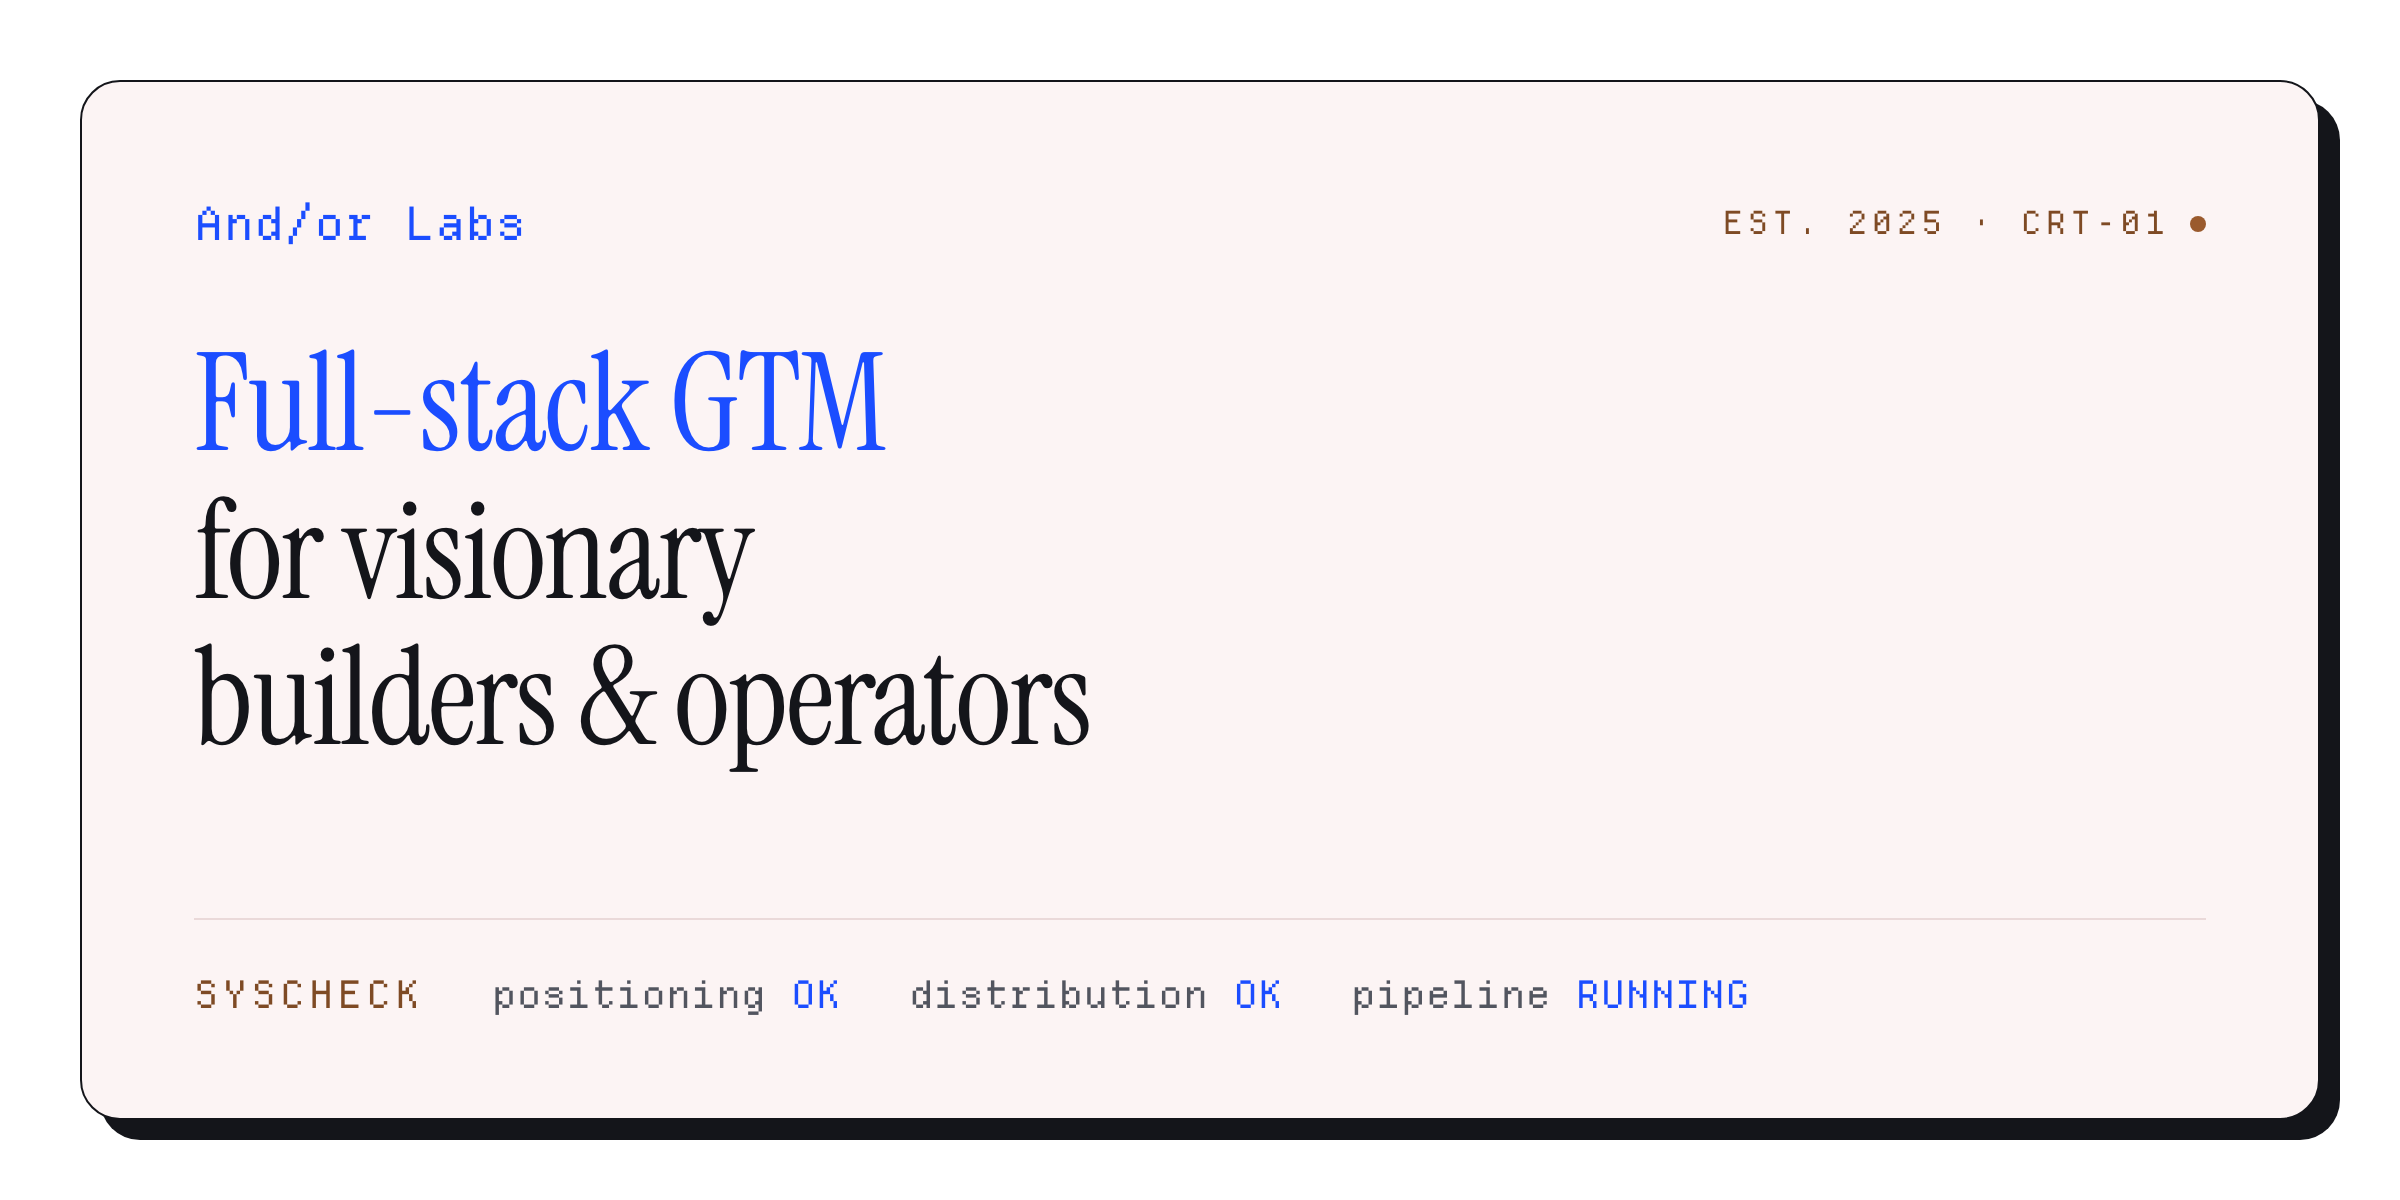
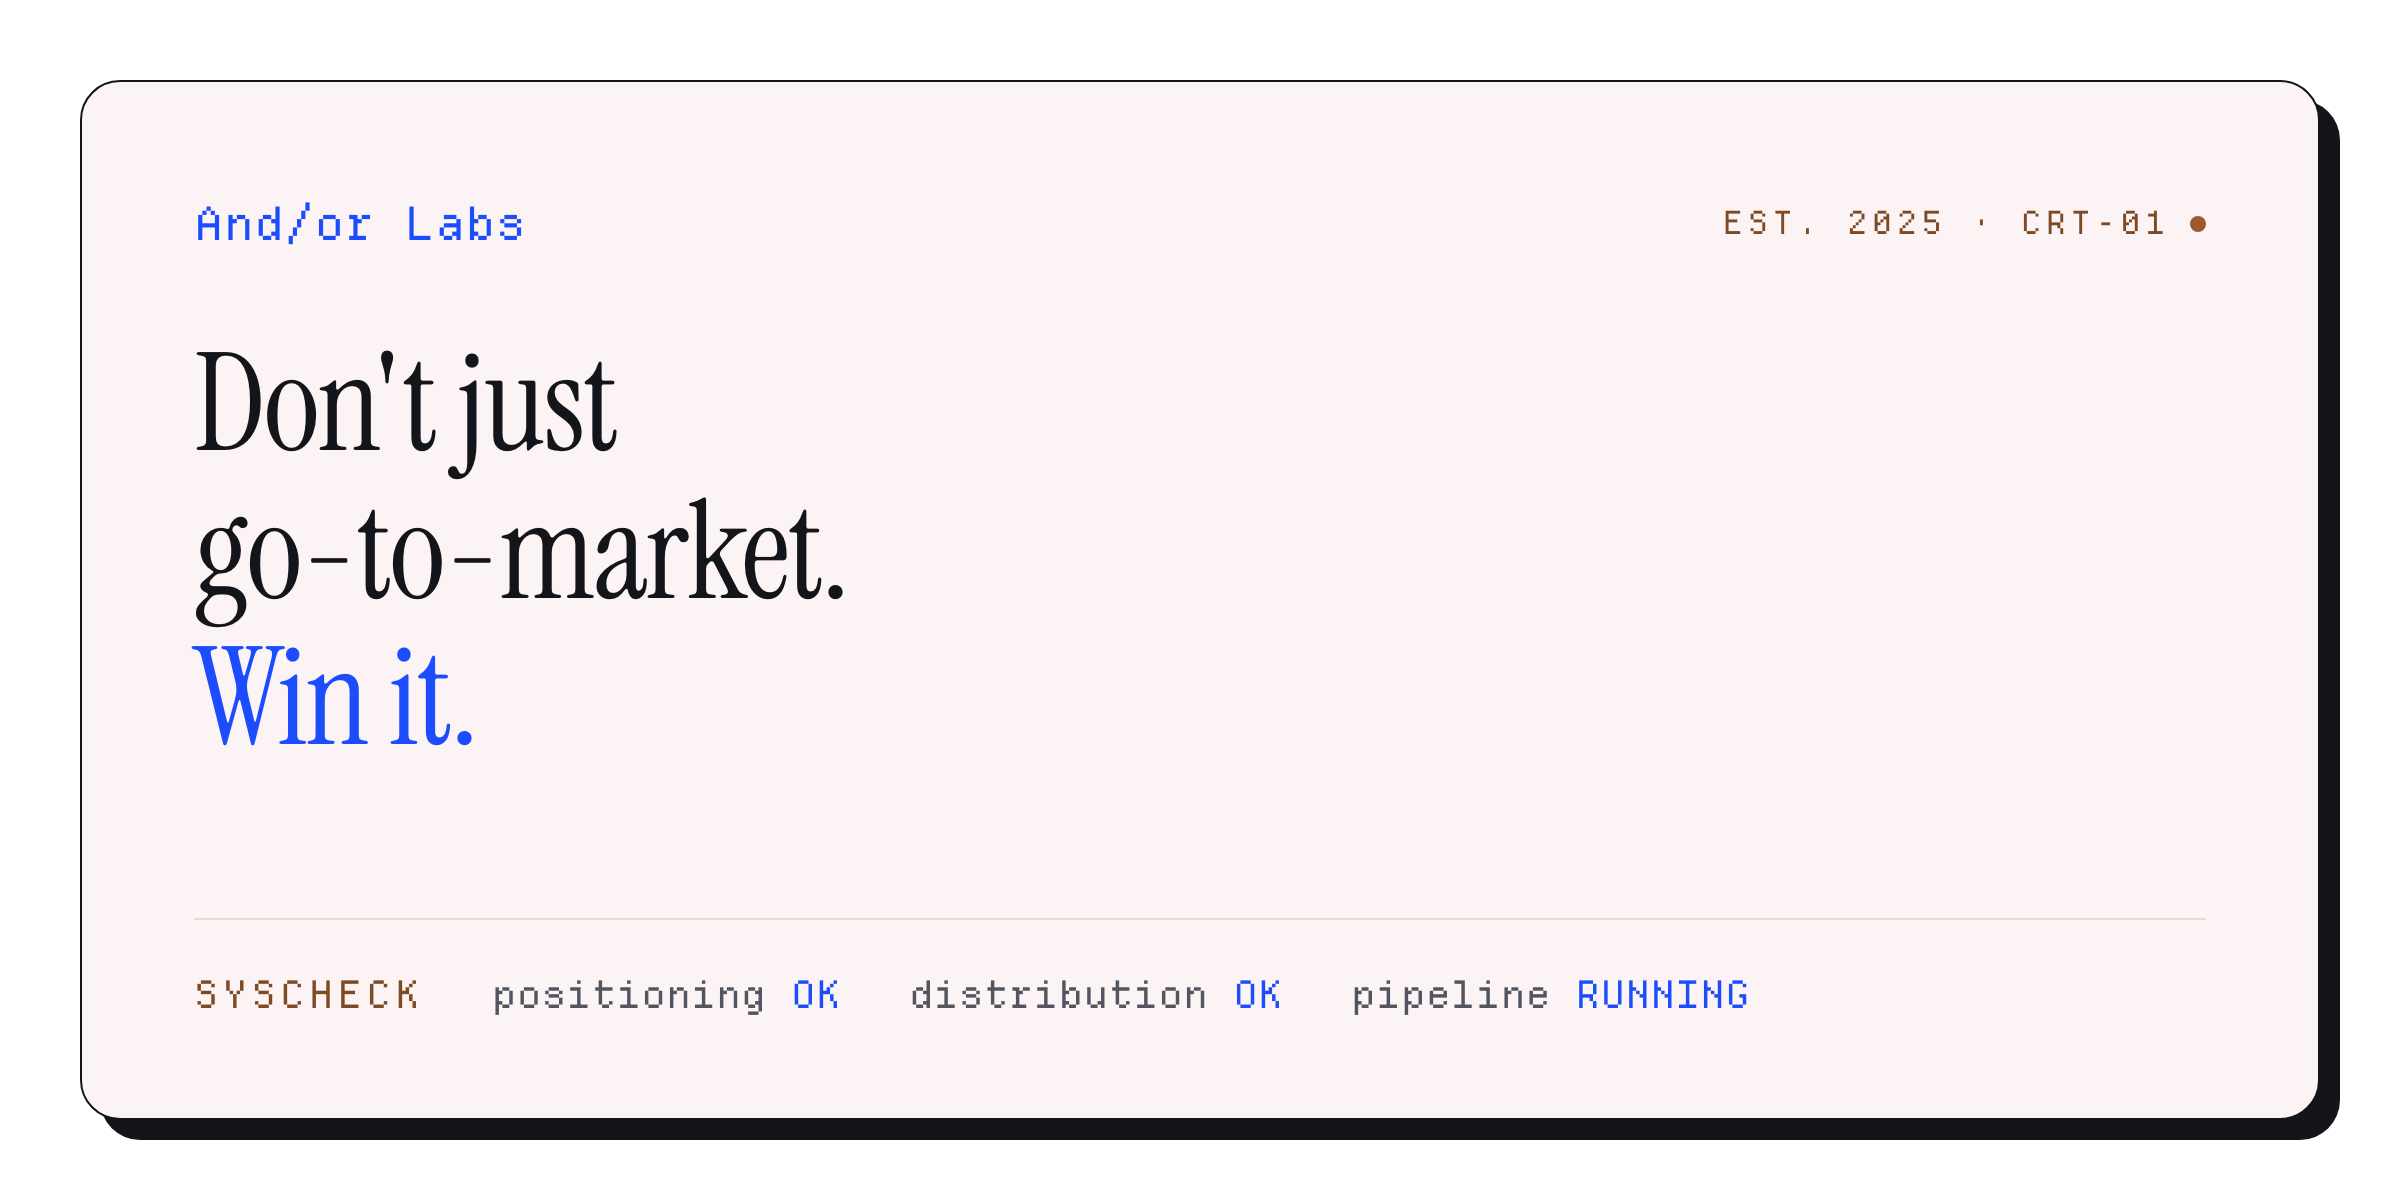
Say the new promise on every surface, not just the hero
The hero H1 and PROMISE were rewritten but nothing downstream followed, so
the page would have shipped arguing with itself.

PROMISE now sells to advertising technology while ICP still said "AI, adtech,
and deeptech" — which FounderNote, Newsletter, FAQ and llms.txt all interpolate.
The subhead would have named one category with three sections under it naming
three: the exact split config.ts was created to close, reopened from the other
end. ICP is narrowed to adtech so every surface follows again.

That narrowing left two dangling references to a set that no longer has three
members: the FAQ answer opened "Those three share a buyer", and the constant's
own comment explained why the three categories belong together. Both rewritten
rather than left pointing at nothing.

The old headline also had four copies that do not derive from the H1 — the
title tag, the footer, the OG card art, and create-author.ts. All four updated
and public/og.png re-rendered, since a card is a file and does not rebuild
itself. create-author.ts additionally still quoted the retired promise verbatim
in the bio it writes.

Not covered here: the author document already in Sanity still carries the old
credential and bio. It renders on every blog post, in the visible author card
and in Person JSON-LD, and only a re-run of create-author.ts refreshes it.

Changed region(s): [[0.0625, 0.4317, 0.4688, 0.6475], [0.0625, 0.2775, 0.375, 0.4008]]

diff --git a/scripts/create-author.ts b/scripts/create-author.ts
@@ -22,8 +22,8 @@
  *                   startups that sold for >$100M, I now help {ICP} teams
  *                   set themselves up to win."
  *   bio ¶1       src/config.ts:22,33  ICP + PROMISE
- *                  "AI, adtech, and deeptech" / "clear positioning, deep
- *                   market intelligence, and autonomous growth systems"
+ *                  "adtech" / "find product-market fit, accelerate revenue
+ *                   growth, and win their category"
  *   credential 1 src/components/sections/FAQ.astro:10
  *                  "...ran product marketing and sales operations through
  *                   two exits above $100M."
@@ -31,7 +31,7 @@
  *                  "The founder, directly. No account layers and no handoff
  *                   once the pitch is over."
  *   credential 3 src/components/sections/SiteFooter.astro:21
- *                  "Full-stack GTM for visionary builders & operators"
+ *                  "Don't just go-to-market. Win it."
  *   sameAs[0]    src/layouts/Base.astro:75  twitter:creator @eclecticV
  *   sameAs[1]    src/components/sections/SiteFooter.astro:11
  *
@@ -89,14 +89,14 @@ async function main() {
         "bio-0",
       ),
       block(
-        "The work is clear positioning, deep market intelligence, and autonomous growth systems.",
+        "The work is finding product-market fit, accelerating revenue growth, and winning the category.",
         "bio-1",
       ),
     ],
     credentials: [
       "Ran product marketing and sales operations through two exits above $100M",
       "Works with clients directly — no account layers, no handoff once the pitch is over",
-      "Full-stack GTM for visionary builders and operators",
+      "Don't just go-to-market. Win it.",
     ],
     // Feeds Person.sameAs. Both URLs already exist in the repo; nothing is
     // guessed or reconstructed from a name.

diff --git a/src/config.ts b/src/config.ts
@@ -15,11 +15,12 @@ export const BOOKING_URL = "https://cal.com/jatain/book";
  * The first screen ended up giving three different answers to "is this for me?".
  * Change it here; every surface follows.
  *
- * The three named categories share a buyer, not a vertical: technically complex
- * products sold to skeptical technical people. That is what makes the operator
- * track record transferable across all three.
+ * Narrowed back to adtech on 2026-08-21, deliberately. The hero promise now
+ * names advertising technology and nothing else, and an ICP left broad would
+ * have reopened the exact split this constant exists to close: a subhead
+ * selling to one category with three sections under it selling to three.
  */
-export const ICP = "AI, adtech, and deeptech";
+export const ICP = "adtech";
 
 /** The ICP as a noun phrase, e.g. "We help {ICP_STARTUPS} lead their category". */
 export const ICP_STARTUPS = `${ICP} startups`;
@@ -29,5 +30,9 @@ export const ICP_STARTUPS = `${ICP} startups`;
  *
  * These were two separately-typed sentences making two different claims, so the
  * search snippet promised something the page didn't. Same phrase, one source.
+ *
+ * Spelled out as "advertising technology" rather than interpolating ICP: this is
+ * the first sentence a stranger reads and "adtech" is house shorthand. It is the
+ * one surface that does not derive from ICP, so the two must be moved together.
  */
-export const PROMISE = `We help ${ICP_STARTUPS} win their category through clear positioning, deep market intelligence, and autonomous growth systems.`;
+export const PROMISE = "We're a boutique consultancy helping advertising technology startups find product-market fit, accelerate revenue growth, and win their category.";
